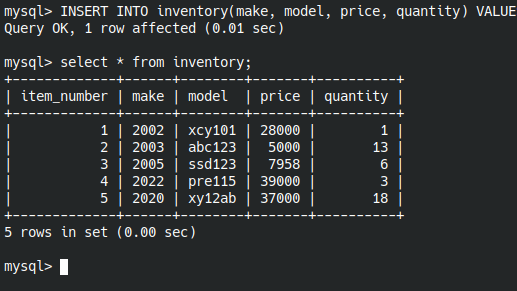
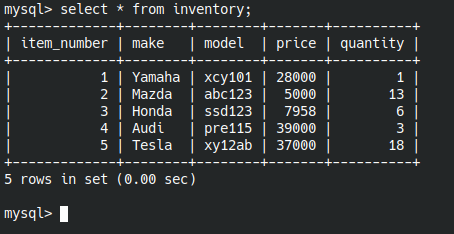
updated lab4

diff --git a/Lab4/searchSkill.php b/Lab4/searchSkill.php
@@ -1,0 +1,77 @@
+<html>
+<body>
+
+<H3>List employees who have experience in a programming language.<br/></H3>
+
+<?php
+ini_set('display_errors', 1);
+ini_set('display_startup_errors', 1);
+error_reporting(E_ALL);
+
+$host = "localhost:3306";
+$user = "root";
+$password = "Kathmandu@1";
+$database = "inventory";
+$table = "inventory";
+
+$DBConnect = @mysqli_connect($host, $user,$password, $database)
+		Or die ("<p>Unable to connect to the database server.</p>". "<p>Error code ". mysqli_connect_errno().": ". mysqli_connect_error()). "</p>";
+
+// set up the SQL query string - we will retrieve the whole
+// record that matches the name
+
+// get language names from db
+
+$SQLstring = "select language from languages";
+$queryResult = @mysqli_query($DBConnect, $SQLstring)
+		Or die ("<p>Unable to query the languages table.</p>"."<p>Error code ". mysqli_errno($DBConnect). ": ".mysqli_error($DBConnect)). "</p>";
+
+
+echo "<form>Please select a language: <select name='language'>";
+	
+$row = mysqli_fetch_row($queryResult);
+
+while ($row) {
+    echo "<option value='".$row[0]."'>".$row[0]."</option>";
+    $row = mysqli_fetch_row($queryResult);
+}
+
+
+
+echo "</select><br/>Please input the minimum year required: <input type='text' name='year'/><input type='submit' value='Search'/></form>";
+
+//if a language is selected, get data from table
+if(isset($_GET['language'])) {
+    if (isset($_GET['year']) && $_GET['year'] > 0) {
+        $SQLstring = "select e.first_name,e.last_name,l.language,x.years FROM employees e, experience x,languages l where e.id=x.employee_id and x.language_id = l.language_id and l.language='" . $_GET['language'] . "' and x.years>=" . $_GET['year'];
+    } else {
+        $SQLstring = "select e.first_name,e.last_name,l.language,x.years FROM employees e, experience x,languages l where e.employee_id=x.employee_id and x.language_id = l.language_id and language='" . $_GET['language'] . "'";
+    }
+
+// perform the query, storing the result
+$queryResult = @mysqli_query($DBConnect, $SQLstring)
+		Or die ("<p>Unable to query the employee table.</p>"."<p>Error code ". mysqli_errno($DBConnect). ": ".mysqli_error($DBConnect)). "</p>";
+
+echo "<p>List of Employees who have at least ", $_GET['year'], " years in ", $_GET['language'], ".</p>";
+
+echo "<table width='100%' border='1'>";
+echo "<th>First Name</th><th>Last Name</th><th>Language</th><th>Year</th>";
+	$row = mysqli_fetch_row($queryResult);
+
+	while ($row) {
+		echo "<tr><td>{$row[0]}</td>";
+		echo "<td>{$row[1]}</td>";
+		echo "<td>{$row[2]}</td>";
+		echo "<td>{$row[3]}</td></tr>";
+		$row = mysqli_fetch_row($queryResult);
+	}
+	echo "</table>";
+
+
+mysqli_close($DBConnect);
+
+}
+?>
+
+</body>
+</html>

diff --git a/Lab4/c.php b/Lab4/c.php
@@ -47,7 +47,7 @@ if(isset($_GET['submit'])){
         $option_query = "SELECT * FROM $table";
     }
     else{
-        $option_query = "SELECT * FROM $table where make = $select";
+        $option_query = "SELECT * FROM $table where make = '$select'";
     }
     $options = @mysqli_query($DBConnect, $option_query);
 

diff --git a/Lab4/d.php b/Lab4/d.php
@@ -14,10 +14,6 @@
         <button type='submit' name='submit' value='submit'>Submit</button><br><br>
     </form>
 <?php
-ini_set('display_errors', 1);
-ini_set('display_startup_errors', 1);
-error_reporting(E_ALL);
-
 $host = "localhost:3306";
 $user = "root";
 $password = "Kathmandu@1";

diff --git a/test.php b/test.php
@@ -1,4 +1,10 @@
+
 <?php
+// log error
+ini_set('display_errors', 1);
+ini_set('display_startup_errors', 1);
+error_reporting(E_ALL);
+
 $file = "../data/bowlers.txt";
 if (!file_exists($file)) {
     if (!touch($file)) {

diff --git a/Lab4/readme.md b/Lab4/readme.md
@@ -10,17 +10,17 @@ Answer: database inventory created using following command.
 ```sql
 create database if not exists inventory;
 use inventory;
-CREATE TABLE inventory ( item_number int NOT NULL AUTO_INCREMENT, make varchar(30) NOT NULL, model varchar(30) NOT NULL, price double NOT NULL, quantity int NOT NULL, PRIMARY KEY (item_number) );
+CREATE TABLE inventory ( item_number int NOT NULL AUTO_INCREMENT, make char(20) NOT NULL, model varchar(30) NOT NULL, price double NOT NULL, quantity int NOT NULL, PRIMARY KEY (item_number) );
 ```
 <li>Insert at least 5 records into the table.</li>
 Answer: added 5 records to database using following command.
 
 ```sql
-INSERT INTO inventory(make, model, price, quantity) VALUES ('2002', 'xcy101', 28000, 1);
-INSERT INTO inventory(make, model, price, quantity) VALUES ('2003', 'abc123', 5000, 13);
-INSERT INTO inventory(make, model, price, quantity) VALUES ('2005', 'ssd123', 7958, 6);
-INSERT INTO inventory(make, model, price, quantity) VALUES ('2022', 'pre115', 39000, 3);
-INSERT INTO inventory(make, model, price, quantity) VALUES ('2020', 'xy12ab', 37000, 18);
+INSERT INTO inventory(make, model, price, quantity) VALUES ('Yamaha', 'xcy101', 28000, 1);
+INSERT INTO inventory(make, model, price, quantity) VALUES ('Mazda', 'abc123', 5000, 13);
+INSERT INTO inventory(make, model, price, quantity) VALUES ('Honda', 'ssd123', 7958, 6);
+INSERT INTO inventory(make, model, price, quantity) VALUES ('Audi', 'pre115', 39000, 3);
+INSERT INTO inventory(make, model, price, quantity) VALUES ('Tesla', 'xy12ab', 37000, 18);
 ```
 
 ![1create records.png](Screenshots%2F1create%20records.png)
@@ -32,7 +32,7 @@ Answer: The records displayed using following command.
 select * from inventory;
 ```
 
-![2display.png](Screenshots%2F1display.png)
+![1display.png](Screenshots%2F1display.png)
 
 <li>Update an existing table row using ‘update’ statement.</li>
 Answer: From the record, the price of item 2 was updated using following command.
@@ -41,7 +41,7 @@ Answer: From the record, the price of item 2 was updated using following command
 UPDATE inventory SET price = 5055 WHERE item_number = 2;
 ``` 
 
-![3update.png](Screenshots%2F1update.png)
+![1update.png](Screenshots%2F1update.png)
 </ul>
 
 <p align="justify"> b) Create a MySQL database table named ‘Employees’ in phpMyAdmin. The structure of Employees table is the shown in the 
@@ -82,31 +82,67 @@ names of all makes that can be found in the inventory table.User can select to s
 the data of all makes(see Figure 2). </p>
 
 Answer: see attached file [c.php](c.php)
+![3ss.png](Screenshots%2F3ss.png)
 
-![3a.png](Screenshots%2F3a.png)
 
 <p align="justify"> d) Modify the page in c) to allow user insert new data row from the web page (see Figure 3). After the user input the 
 content of new row and press the ‘add’ button, the input data will be inserted into MySQL database. Then the page will
 display the updated content of the ‘inventory’ table (see Figure 4). </p>
 
 Answer: see attached file [d.php](d.php)
+![4display.png](Screenshots%2F4display.png)
 
 <p align="justify"> e) The following three tables are created with some data in a database called person_db.
 
 ``` sql
 Employees(employee_id,  last_name,  first_name,  address, city, state, zip);
-Experience(employee_id, language_id, years);Languages(language_id, language);
+Experience(employee_id, language_id, years);
+Languages(language_id, language);
+```
+
+Answer: Rather than creating new table for employees, the existing employee table was used. ID column was added as a 
+primary key and set as auto increment. The following command was used.
+```sql
+ALTER TABLE employees ADD COLUMN id INT AUTO_INCREMENT PRIMARY KEY FIRST;
+```
+
+Then created the required two tables. 
+
+```sql
+CREATE TABLE languages (language_id INT AUTO_INCREMENT PRIMARY KEY, language VARCHAR(30));
+CREATE TABLE experience (employee_id INT, language_id INT, years INT, FOREIGN KEY (employee_id) REFERENCES employees(id), FOREIGN KEY (language_id) REFERENCES languages(language_id));
+```
+
+I have used https://www.mockaroo.com/ to generate random data.
+
+```sql
+insert into experience (employee_id, language_id, years) values  (7, 1, 8),(7, 4, 4),(9, 1, 10),(3, 7, 6),(4, 2, 7),
+    (10, 9, 8),(6, 7, 8),(6, 9, 5),(10, 2, 5),(4, 9, 6),(8, 9, 7),(5, 6, 10),(1, 7, 6),(2, 2, 7),(8, 8, 8),(6, 1, 1),
+    (7, 8, 6),(4, 4, 3),(1, 4, 10),(2, 4, 7),(1, 8, 10),(2, 8, 7),(5, 4, 6),(2, 9, 6),(7, 3, 9),(4, 10, 6),(10, 7, 6),
+    (5, 1, 3),(6, 8, 1),(9, 10, 10),(9, 3, 4),(3, 5, 6),(7, 6, 4),(10, 4, 9),(6, 5, 5),(9, 5, 4),(5, 10, 8),(5, 3, 2),
+    (8, 6, 8),(8, 7, 7),(8, 3, 3),(2, 6, 4),(5, 2, 3),(4, 6, 6),(3, 3, 10),(3, 4, 9),(1, 6, 7),(10, 3, 5),(1, 10, 7),
+    (6, 6, 8),(3, 2, 5),(10, 8, 4),(6, 10, 8),(10, 5, 5),(9, 7, 8),(2, 3, 10),(10, 1, 1),(5, 8, 5),(5, 9, 4),(6, 3, 5),
+    (8, 5, 4),(7, 7, 8),(7, 10, 7),(10, 6, 6),(9, 2, 5),(9, 6, 5),(7, 9, 8),(3, 1, 1),(1, 9, 3),(3, 6, 9),(10, 10, 8),
+    (4, 7, 4),(1, 2, 9),(9, 4, 9),(8, 10, 7),(5, 7, 10),(8, 2, 3),(7, 2, 7),(9, 8, 6),(1, 5, 10),(9, 9, 5),(2, 7, 4),
+    (7, 5, 8),(8, 1, 6),(3, 8, 10),(3, 9, 9),(4, 8, 10),(3, 10, 10),(6, 4, 2),(4, 3, 4),(1, 1, 5),(2, 10, 7),(2, 1, 4),
+    (2, 5, 2),(6, 2, 7),(4, 5, 4),(5, 5, 1),(1, 3, 7),(4, 1, 9),(8, 4, 6);
 ```
 
 Write  the  SQL  query statement to  retrieve  those  employees  (with  their  items: first_name,  last_name,  language,
 years,  city)  who  have  5  years’  experience  in “PHP” and  live in the city “Melbourne”.
 ```sql
-$sqlQuery = “SELECT ......
+SELECT employees.first_name, employees.last_name, languages.language, experience.years, employees.city FROM employees 
+    JOIN experience ON employees.id = experience.employee_id JOIN languages ON experience.language_id = languages.language_id
+    WHERE languages.language = 'PHP' AND experience.years = 5 AND employees.city = 'Melbourne';
 ```
+![5query.png](Screenshots%2F5query.png)
+
 </p>
 
 <p align="justify"> f) Modify the code SearchSkill.php introduced in Lecture 4 (download Lec4Examples.zip from Blackboard) to get city, 
 language, and years from the interface and output the search result as below by using the similar  SQL query in e):
+
+Answer: FIrst, the code had to be modified to run as is locally. see attached [searchSkill.php](searchSkill.php)
 
 <p align="justify"> g) Change the simple online quiz PHP page that you wrote for exercise (e) in Lab2 and exercise (c) in Lab3. Instead of 
 hard coding the questions on the HTML page or store them in a file, you need to store them in one or more MySQL database
